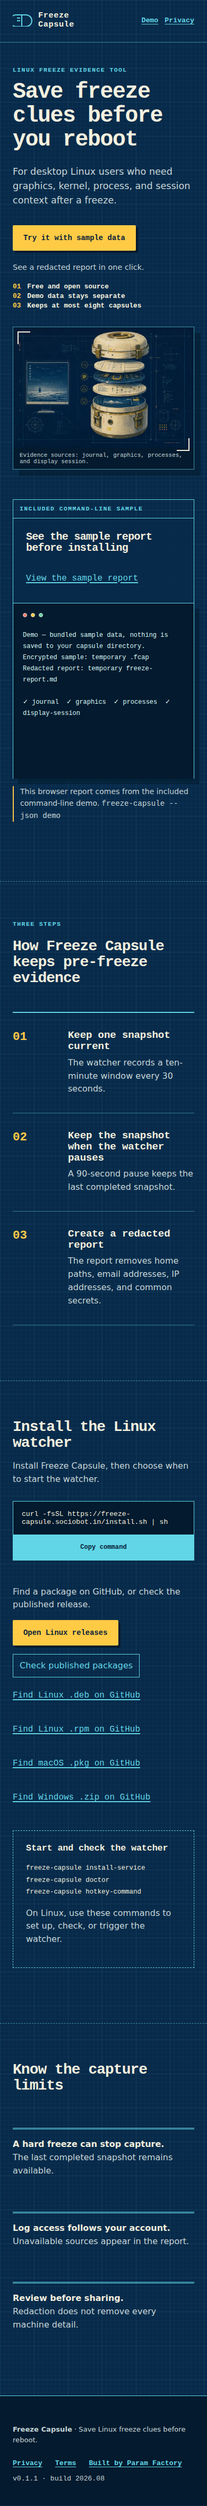
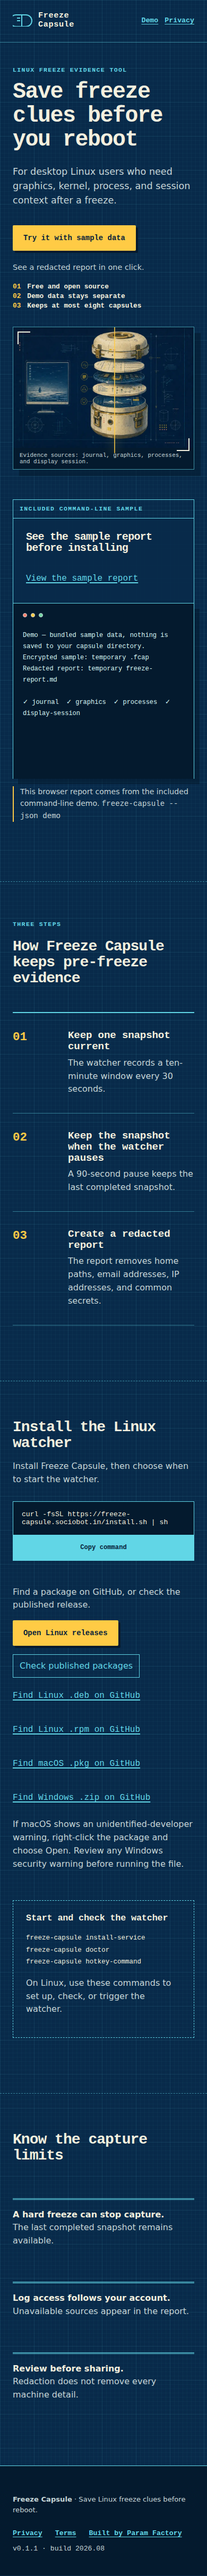
docs: record polish round 4 evidence

diff --git a/site/src/main.ts b/site/src/main.ts
@@ -32,7 +32,7 @@ const home = () => shell(`
   </section>
   ${terminal(false)}
   <section class="steps blueprint-section" aria-labelledby="how-title"><div class="section-mark">THREE STEPS</div><h2 id="how-title">How Freeze Capsule keeps pre-freeze evidence</h2><ol><li><span>01</span><div><h3>Keep one snapshot current</h3><p>The watcher records a ten-minute window every 30 seconds.</p></div></li><li><span>02</span><div><h3>Keep the snapshot when the watcher pauses</h3><p>A 90-second pause keeps the last completed snapshot.</p></div></li><li><span>03</span><div><h3>Create a redacted report</h3><p>The report removes home paths, email addresses, IP addresses, and common secrets.</p></div></li></ol></section>
-  <section id="install" class="install blueprint-section" aria-labelledby="install-title"><div><h2 id="install-title">Install the Linux watcher</h2><p>Install Freeze Capsule, then choose when to start the watcher.</p><div class="command"><code id="install-command" tabindex="0">curl -fsSL https://freeze-capsule.sociobot.in/install.sh | sh</code><button type="button" data-copy="curl -fsSL https://freeze-capsule.sociobot.in/install.sh | sh">Copy command</button></div><p class="copy-status" data-copy-status role="status" aria-live="polite"></p><p class="platform-note" data-download-state aria-live="polite">Find a package on GitHub, or check the published release.</p><div class="release-actions"><a class="primary" data-primary-download href="${RELEASES}">Find Linux packages on GitHub</a><button class="check-release" type="button" data-check-release>Check published packages</button></div><div class="downloads"><a data-download="deb" href="${RELEASES}">Find Linux .deb on GitHub</a><a data-download="rpm" href="${RELEASES}">Find Linux .rpm on GitHub</a><a data-download="mac" href="${RELEASES}">Find macOS .pkg on GitHub</a><a data-download="win" href="${RELEASES}">Find Windows .zip on GitHub</a></div></div><aside><h3>Start and check the watcher</h3><pre><code>freeze-capsule install-service\nfreeze-capsule doctor\nfreeze-capsule hotkey-command</code></pre><p>On Linux, use these commands to set up, check, or trigger the watcher.</p></aside></section>
+  <section id="install" class="install blueprint-section" aria-labelledby="install-title"><div><h2 id="install-title">Install the Linux watcher</h2><p>Install Freeze Capsule, then choose when to start the watcher.</p><div class="command"><code id="install-command" tabindex="0">curl -fsSL https://freeze-capsule.sociobot.in/install.sh | sh</code><button type="button" data-copy="curl -fsSL https://freeze-capsule.sociobot.in/install.sh | sh">Copy command</button></div><p class="copy-status" data-copy-status role="status" aria-live="polite"></p><p class="platform-note" data-download-state aria-live="polite">Find a package on GitHub, or check the published release.</p><div class="release-actions"><a class="primary" data-primary-download href="${RELEASES}">Find Linux packages on GitHub</a><button class="check-release" type="button" data-check-release>Check published packages</button></div><div class="downloads"><a data-download="deb" href="${RELEASES}">Find Linux .deb on GitHub</a><a data-download="rpm" href="${RELEASES}">Find Linux .rpm on GitHub</a><a data-download="mac" href="${RELEASES}">Find macOS .pkg on GitHub</a><a data-download="win" href="${RELEASES}">Find Windows .zip on GitHub</a></div><p>If macOS shows an unidentified-developer warning, right-click the package and choose Open. Review any Windows security warning before running the file.</p></div><aside><h3>Start and check the watcher</h3><pre><code>freeze-capsule install-service\nfreeze-capsule doctor\nfreeze-capsule hotkey-command</code></pre><p>On Linux, use these commands to set up, check, or trigger the watcher.</p></aside></section>
   <section class="limits blueprint-section" aria-labelledby="limits-title"><h2 id="limits-title">Know the capture limits</h2><div class="limit-grid"><p><strong>A hard freeze can stop capture.</strong><br />The last completed snapshot remains available.</p><p><strong>Log access follows your account.</strong><br />Unavailable sources appear in the report.</p><p><strong>Review before sharing.</strong><br />Redaction does not remove every machine detail.</p></div></section>`);
 
 const demo = () => shell(`

diff --git a/.factory/polish-4.md b/.factory/polish-4.md
@@ -1,0 +1,146 @@
+# Polish round 4 — Freeze Capsule
+
+Candidate `784aaa1512ead50241ae3f2d985aefa99bfead46` and review commit
+`81748d493104f4ad6e6f7d2053fc183656e63d4b` were repaired in implementation
+commit `8c71ecc`. Every earlier review and polish record was rechecked.
+
+## Evidence key
+
+- **Clean claims:** all 26 exact commands in `.factory/claims.json` passed from
+  `/tmp/freeze-capsule-polish4-NeB2JQ/repo`.
+- **Full suite:** clean-clone `npm test` passed 10 Rust tests, the watchdog
+  integration, and 35 Playwright tests. Clippy, release build, site build, and
+  npm audit also passed.
+- **Screens:** `.factory/evidence/home-390-polish-4.png`,
+  `.factory/evidence/demo-390-polish-4.png`,
+  `.factory/evidence/live-demo-390-polish-4.png`, and
+  `.factory/evidence/404-390-polish-4.png`.
+- **Live:** <https://freeze-capsule.sociobot.in/>,
+  <https://freeze-capsule.sociobot.in/demo?demo=1>,
+  <https://freeze-capsule.sociobot.in/privacy>,
+  <https://freeze-capsule.sociobot.in/terms>, and the HTTP 404 at
+  <https://freeze-capsule.sociobot.in/missing-sheet>.
+- **Accessibility/performance:** live URL verifier had no console errors; Axe
+  4.13 reported zero violations on five routes; mobile Lighthouse scored 100
+  in performance, accessibility, best practices, and SEO.
+
+## Review 1 mapping
+
+| Finding | Change made | Evidence |
+| --- | --- | --- |
+| F-1-1 | One landing click opens a populated, fixture-derived report excerpt inside the phone viewport. | `@claim:sample-report`; live demo screen |
+| F-1-2 | Reset and every demo exit clear only `demo:` keys; real markers survive. | `@claim:demo-private`; live reset/exit check |
+| F-1-3 | Browser output is regenerated from the real command-line demo report. | `@claim:sample-fixture` |
+| F-1-4 | Network/privacy wording remains limited to the exercised isolated demo. | `@claim:cli-local-only` |
+| F-1-5 | Unknown live URLs return the complete designed shell with HTTP 404. | live `/missing-sheet`; 404 screenshot |
+| F-1-6 | Demo, Back, and Forward focus the new route heading. | keyboard route test; live focus check |
+| F-1-7 | Every route sets its own title, description, canonical, OG, and Twitter data. | route accessibility test; live metadata check |
+| F-1-8 | Home outcome and three facts end by y=583 at 390×844. | mobile test; home screenshot |
+| F-1-9 | Unresolved links name GitHub; resolved links point to the named files. | release browser tests; live link crawl |
+| F-1-10 | The unsupported one-binary promise remains absent. | copy audit |
+| F-1-11 | Linux collector requests every named source. | `@claim:linux-live-capture` |
+| F-1-12 | Unsupported cross-platform capability wording remains absent. | README audit |
+| F-1-13 | A suspended watcher preserves the previous completed snapshot. | `@claim:hard-freeze-limit` |
+| F-1-14 | Permission-limited sources stay named and reportable. | `@claim:limited-source-report` |
+| F-1-15 | Missing commands and unreadable sources stay in a usable report. | `@claim:limited-source-report` |
+| F-1-16 | The printed hotkey command creates isolated retained evidence. | `@claim:hotkey-capture` |
+| F-1-17 | Both real installer scripts accept valid checksums and reject tampered checksums before copying. | `@claim:installer-checksum`; live installer check |
+| F-1-18 | Untested `.deb`/`.rpm` availability prose remains absent. | README audit |
+| F-1-19 | Documented list and report JSON are parsed end to end. | `@claim:json-output` |
+| F-1-20 | Journal, kernel, graphics, connector, process, and session collection are asserted. | `@claim:linux-live-capture` |
+| F-1-21 | The untested 96 KiB public statement remains absent. | README audit |
+| F-1-22 | Encryption round trip, nonce layout, and 32-byte key are exercised. | `@claim:encryption-format` |
+| F-1-23 | Unix key mode is asserted as 0600. | `@claim:key-permissions` |
+| F-1-24 | Plain snapshot-slot wording is backed by a count test. | `@claim:current-snapshot` |
+| F-1-25 | Unsupported version-floor wording remains absent. | README audit |
+| F-1-26 | The site output path is explicit and asserted after a real build. | `@claim:build-output` |
+| F-1-27 | The release binary path is explicit and asserted after a real release build. | `@claim:build-output` |
+| F-1-28 | The Playwright browser recovery command remains accurate. | clean-clone README/test check |
+| F-1-29 | The unsupported “only on Actions” statement remains absent. | README audit |
+| F-1-30 | Broad output claims were narrowed to the parsed workflow job declaration. | `@claim:release-workflow-declaration` |
+| F-1-31 | Copy now says signing is not configured; executable workflow steps are checked for signing tools. | `@claim:release-workflow-declaration` |
+| F-1-32 | Normal capture creates one key and evidence below isolated XDG state. | `@claim:normal-state-directory` |
+| F-1-33 | All static routes are checked for cookies, storage, tracking, and foreign requests. | `@claim:site-no-tracking`; live request log |
+| F-1-34 | GitHub release data is requested only after the explicit check action. | `@claim:release-lookup-request` |
+| F-1-35 | Every package link names GitHub navigation and resolves after lookup. | live link crawl |
+| F-1-36 | The controlled Linux source test covers every documented data category. | `@claim:linux-live-capture` |
+| F-1-37 | Unsupported exact deletion-path prose remains absent. | privacy audit |
+| F-1-38 | Unsupported uninstall-retention prose remains absent. | privacy audit |
+| F-1-39 | The redaction fixture retains a documented hardware identifier. | `@claim:redaction-limits` |
+| F-1-40 | MIT license and warranty text are both asserted. | `@claim:free-license` |
+| F-1-41 | The evidence-process heading names Freeze Capsule and its job. | copy audit |
+| F-1-42 | The pause step uses direct snapshot language. | copy audit |
+| F-1-43 | The report step says “Create a redacted report.” | copy audit |
+| F-1-44 | “Start and check the watcher” names the post-install task. | copy audit |
+| F-1-45 | The 90-second watcher pause is described in user language. | README audit |
+| F-1-46 | Source descriptions remain split below 22 words. | copy audit |
+| F-1-47 | “Background watcher” is defined once; “watcher” is then used consistently. | README terminology audit |
+| F-1-48 | “Freeze” and defined “hard freeze” now also replace the last sample/source “hard lock” text. | generated demo fixture; copy audit |
+| F-1-49 | Least-privilege jargon remains absent from user copy. | README audit |
+| F-1-50 | Both sample actions name the report result. | `@claim:sample-report` |
+
+## Review 2 mapping
+
+| Finding | Change made | Evidence |
+| --- | --- | --- |
+| F-2-1 | The clean full quality gate passes. | clean-clone `npm test`: 35 browser tests |
+| F-2-2 | Static 404 retains skip link, Install nav, icons, social metadata, and full footer. | 404 shell test; live 404 |
+| F-2-3 | Linux data collection is declared and exercised. | `@claim:linux-live-capture` |
+| F-2-4 | Unsupported macOS/Windows command promise remains absent. | README audit |
+| F-2-5 | Watcher suspension behavior is declared and exercised. | `@claim:hard-freeze-limit` |
+| F-2-6 | Limited-source behavior is declared and exercised. | `@claim:limited-source-report` |
+| F-2-7 | Hotkey capture is declared and exercised. | `@claim:hotkey-capture` |
+| F-2-8 | Both installer success and rejection paths now execute. | `@claim:installer-checksum` |
+| F-2-9 | Unsupported release-page availability prose remains absent. | README audit |
+| F-2-10 | Structured command output is declared and parsed. | `@claim:json-output` |
+| F-2-11 | Every named collection source is asserted. | `@claim:linux-live-capture` |
+| F-2-12 | Encryption details are exercised. | `@claim:encryption-format` |
+| F-2-13 | Key permissions are exercised. | `@claim:key-permissions` |
+| F-2-14 | Current-snapshot wording and saved-slot behavior remain direct and tested. | `@claim:current-snapshot` |
+| F-2-15 | The over-broad artifact/signature claim was replaced by a structurally parsed workflow declaration. | `@claim:release-workflow-declaration` |
+| F-2-16 | Normal local state behavior is exercised. | `@claim:normal-state-directory` |
+| F-2-17 | Whole-site no-tracking behavior is exercised. | `@claim:site-no-tracking` |
+| F-2-18 | Explicit GitHub lookup timing and origin are exercised. | `@claim:release-lookup-request` |
+| F-2-19 | Unsupported package-removal statement remains absent. | privacy audit |
+| F-2-20 | A retained hardware detail demonstrates the redaction boundary. | `@claim:redaction-limits` |
+| F-2-21 | Public copy uses “included command-line sample,” not CLI/fixture jargon. | copy audit |
+
+## Review 3 mapping
+
+| Finding | Change made | Evidence |
+| --- | --- | --- |
+| F-3-1 | Privacy, Home, Back, Forward, Install, and a real 404 all clear `demo:` state while preserving real markers. | `@claim:demo-private`; live route/storage check |
+
+## Review 4 mapping
+
+| Finding | Change made | Evidence |
+| --- | --- | --- |
+| F-4-1 | A compact report excerpt is rendered before the replay terminal. Its four rows end at y=551 on the live 390×844 viewport. | `@claim:sample-report`; live demo screenshot |
+| F-4-2 | A local fixture server feeds valid and changed checksums to both real installer scripts; all four outcomes are asserted. | `@claim:installer-checksum` |
+| F-4-3 | The public claim now describes the workflow declaration, which is parsed as YAML; it no longer claims locally unobserved artifacts or signatures. | `@claim:release-workflow-declaration`; live v0.1.1 asset check |
+| F-4-4 | Explicit site and binary paths have a real build-output claim. | `@claim:build-output` |
+| F-4-5 | Clipboard rejection is caught and announces a manual-copy recovery step without a page error. | clipboard-denial Playwright test; live denied-permission check |
+| F-4-6 | Lookup failure now says the check failed and points to the release page without inventing a cause. | release-fallback test; live aborted-request check |
+| F-4-7 | Hero label is now “Linux freeze evidence tool.” | copy audit; home screenshot |
+| F-4-8 | Caption now names the four evidence sources without a figure number. | copy audit; home screenshot |
+| F-4-9 | “Detail A” was removed; the useful sample label remains. | copy audit |
+| F-4-10 | “Sequence / 03” became “Three steps.” | copy audit |
+| F-4-11 | “Installation plate” was removed. | copy audit |
+| F-4-12 | “Boundary notes” was removed. | copy audit |
+| F-4-13 | README first defines “background watcher.” | README audit |
+| F-4-14 | Homebrew heading now names the install result and formula condition. | README audit |
+| F-4-15 | Scoop heading now names installation and explains the bucket. | README audit |
+| F-4-16 | README and command output say the watcher collects real system data only on Linux. | README/source audit |
+| F-4-17 | Procedure heading now says “List and export reports after a freeze or reboot.” | README audit |
+| F-4-18 | 404 label is “Page not found / 404.” | 404 screenshot; live 404 |
+| F-4-19 | Both SPA and static 404 headings say “Page not found.” | 404 test; live 404 |
+| F-4-20 | 404 action says “Return to the home page.” | 404 screenshot |
+| F-4-21 | Privacy label is “Privacy policy.” | live `/privacy` |
+| F-4-22 | Terms label is “Terms.” | live `/terms` |
+| F-4-23 | Terms h1 is “Terms for using Freeze Capsule.” | live `/terms` metadata check |
+
+## Result
+
+No finding remains open. The deployed site serves the implementation asset
+`index-N_uPf4SV.js`; all intended live routes and resolved v0.1.1 package links
+return their expected status. The blueprint identity and original art remain.

diff --git a/.factory/handoff.md b/.factory/handoff.md
@@ -1,50 +1,121 @@
-# Freeze Capsule — review 4 handoff
+# Freeze Capsule — polish round 4 handoff
 
 ## Outcome
 
-Adversarial review 4 is complete at candidate
-`784aaa1512ead50241ae3f2d985aefa99bfead46`. The verdict is **FAIL** with 23
-findings in `.factory/review-4.md`: four blocking, two major, and seventeen
-minor copy/structure findings. Product code was not modified.
+All findings from reviews 1–4 are resolved. The implementation repair is
+commit `8c71ecc`; the final documentation commit follows it on `main`. The
+static product is deployed at <https://freeze-capsule.sociobot.in> with its
+original CLI/installers artifact class and blueprint visual identity intact.
 
-## Verification performed
+The phone demo now shows journal, graphics, process, and display-session
+evidence immediately after one landing click. Clipboard and package lookup
+failures have recovery text. Every route has the required metadata, focus,
+legal shell, and real 404 behavior. All round-4 copy findings were rewritten.
 
-- Opened the live site cold at 390×844 and 1440×900.
-- Exercised the one-click demo, Reset, Install exit, ordinary navigation,
-  Back/Forward, unknown-route exit, storage isolation, and live request log.
-- Ran all 25 exact `.factory/claims.json` commands individually after `npm ci`
-  in clean clone `/tmp/freeze-review4-cdX0YK/clone`; all exited successfully.
-- Ran `npm test` in that clone: 10 Rust tests, watchdog integration, and 33
-  Playwright tests passed.
-- Confirmed the build emits `dist/site` and 5.21 kB gzip JavaScript.
-- Ran the live POSIX installer into a fresh temporary install directory and ran
-  the installed binary's demo.
-- Ran `/opt/fleet/lib/verify-url.sh` successfully and live Axe checks on Home,
-  Demo, Privacy, Terms, and the unknown-route 404 with zero violations.
-- Crawled all static links and all four resolved v0.1.1 download links; all
-  intended destinations returned 200.
-- Read and independently rechecked every finding from reviews 1–3 and every
-  polish/handoff record.
+## Exact verification evidence
 
-## Remaining work
+### Clean clone and claims
 
-The complete fixes are specified per finding in `.factory/review-4.md`. The
-blocking work is to show realistic report output in the first phone demo
-viewport, replace installer/release source-string claim tests with outcome
-tests, and remove or test the README build-output claim. Clipboard and package
-lookup errors need honest recovery states. The remaining copy should be
-rewritten to remove blueprint lore and define technical terms on first use.
+Fresh clone: `/tmp/freeze-capsule-polish4-NeB2JQ/repo` from implementation
+commit `8c71ecc`.
 
-## Re-run
+- `npm ci`: pass.
+- Every one of the 26 exact `.factory/claims.json` commands: pass individually.
+- `npm test`: pass — 10 Rust unit tests, watchdog integration, 35 Playwright
+  browser/integration/claim tests.
+- `cargo clippy --all-targets -- -D warnings`: pass.
+- `cargo build --locked --release`: pass.
+- `npm run build`: pass; output is `dist/site`.
+- `npm audit --audit-level=moderate`: pass; zero vulnerabilities.
+- Production bundle: 14.82 kB JavaScript / 5.54 kB gzip and 12.17 kB CSS /
+  3.50 kB gzip.
+
+The installer claim starts a local fixture server. It executes both the POSIX
+and PowerShell installers with a valid archive/checksum and a deliberately
+changed checksum. Both valid archives install; both changed checksums fail
+before a binary is copied. PowerShell 7.6.5 is downloaded only as a test runner
+when `pwsh` is unavailable, and its pinned archive checksum is verified first.
+
+### Browser, accessibility, privacy, and performance
+
+- `/opt/fleet/lib/verify-url.sh` against the live home page: HTTP 200, no page
+  or console errors, `lang=en`, one h1, one main, no missing alt text, and no
+  unnamed button. Evidence: `.factory/evidence/verify-live-polish-4.json`.
+- Axe 4.13 CLI on live Home, Demo, Privacy, Terms, and `/missing-sheet`: zero
+  violations on every route.
+- Mobile Lighthouse on the final live home page: performance 100,
+  accessibility 100, best practices 100, SEO 100, LCP 1.1 s, CLS 0, TBT 0 ms, and 5,588
+  transferred JavaScript bytes.
+- Privacy request log across live Home, Demo, Privacy, Terms, and 404: no
+  third-party request. The separate claim test proves the GitHub API request
+  occurs only after **Check published packages**. No cookies or analytics are
+  present.
+- The command-line offline/privacy path runs with `connect()` blocked and uses
+  only a temporary demo directory. The website makes no offline claim.
+
+### Cold live recheck
+
+- At 390×844, the home action outcome and all three facts end by y=583.
+- One click opens `/demo?demo=1`; the four report excerpt rows occupy
+  y=469–551. Screenshot:
+  `.factory/evidence/live-demo-390-polish-4.png`.
+- Reset removes a seeded `demo:changed` value, restores `demo:loaded`, and
+  preserves both seeded `real:marker` values. Install exit removes all `demo:`
+  keys and preserves both real markers.
+- Browser Back focuses “Save freeze clues before you reboot”; Forward focuses
+  “Inspect a sample freeze report.”
+- Home, Demo, Privacy, and Terms each return 200 with route-specific title,
+  description, canonical, OG URL, one h1, one main, and the legal footer.
+- `/missing-sheet` returns HTTP 404 with “Page not found”; `/404.html` returns
+  200 as the deliberate standalone error document.
+- Clipboard denial announces “Could not copy. Select the command and copy it
+  manually.” and produces no page error.
+- An aborted GitHub API request announces “Package check failed. Open the
+  GitHub release page to see current files.” and produces no page error.
+- Every discovered static/legal link and all four resolved package links
+  returned 200 after redirects.
+
+Screenshots:
+
+- `.factory/evidence/home-390-polish-4.png`
+- `.factory/evidence/demo-390-polish-4.png`
+- `.factory/evidence/live-demo-390-polish-4.png`
+- `.factory/evidence/404-390-polish-4.png`
+
+## Release and installers
+
+- GitHub release `v0.1.1` exposes 13 assets: Linux archive, `.deb`, `.rpm`, two
+  macOS archives, two macOS `.pkg` files, Windows zip, checksums, `latest.json`,
+  Homebrew formula, Scoop manifest, and winget manifest archive.
+- The deployed POSIX installer downloaded, checksum-verified, installed, and
+  ran the real command-line demo in a fresh temporary directory.
+- The deployed PowerShell installer downloaded, checksum-verified, and
+  installed the Windows executable in a fresh temporary directory.
+- Homebrew tap <https://github.com/B-Divyesh/homebrew-freeze-capsule> now
+  publishes `Formula/freeze-capsule.rb`; all three formula hashes match the
+  release `SHA256SUMS`.
+- The checked release workflow declares Linux, macOS, and Windows packaging
+  jobs and contains no package-signing command. The site gives conditional
+  macOS and Windows warning guidance.
+
+## Run and verify
 
 ```sh
 npm ci
 npm test
+cargo clippy --all-targets -- -D warnings
+cargo build --locked --release
 npm run build
 ```
 
-Then run every command in `.factory/claims.json` individually from a clean
-clone and repeat the live 390 px demo, request-log, route, link, and
-accessibility checks. A later review should not inherit a PASS from the current
-green command exits; it must verify the outcome coverage called out in F-4-2
-and F-4-3.
+Run any single claim using the exact `test` field in `.factory/claims.json`.
+The isolated browser demo is `/demo?demo=1`; the isolated CLI demo is
+`freeze-capsule demo`.
+
+## Known gaps and next steps
+
+No acceptance finding or known product defect remains. Future signed macOS or
+Windows releases would require the owner's signing certificates; signing is
+not part of the current unsigned release contract. Set `HOMEBREW_TAP_TOKEN` in
+the release repository only if future releases should update the tap
+automatically; the current formula is already published.

diff --git a/.factory/copy-audit.md b/.factory/copy-audit.md
@@ -46,6 +46,8 @@ marketing words.
 | Open the GitHub release page to see current files. | 10 | Lookup recovery step |
 | Find Linux .deb on GitHub / Find Linux .rpm on GitHub | 5 / 5 | Honest external links |
 | Find macOS .pkg on GitHub / Find Windows .zip on GitHub | 5 / 5 | Honest external links |
+| If macOS shows an unidentified-developer warning, right-click the package and choose Open. | 12 | Conditional install recovery |
+| Review any Windows security warning before running the file. | 9 | Conditional install safety step |
 | Start and check the watcher | 5 | Section heading |
 | On Linux, use these commands to set up, check, or trigger the watcher. | 13 | Linux instruction |
 | Know the capture limits | 4 | Section heading |
